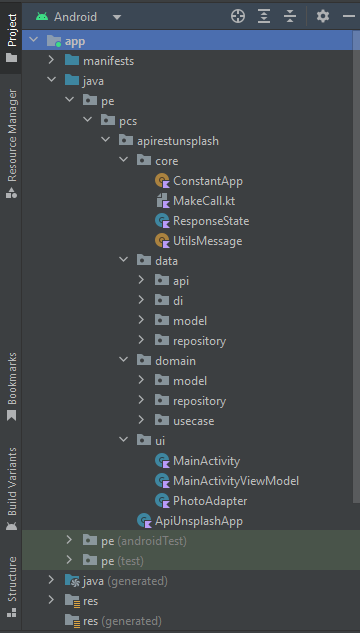
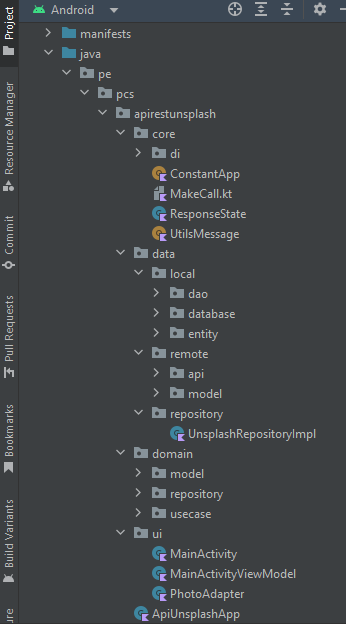
Se agrego ROOM para el almacenamiento de los datos recibidos de la api.

Changed region(s): [[0.0, 0.0, 1.0, 1.0], [0.0, 0.4872, 0.0578, 1.0], [0.3179, 0.3958, 0.3468, 0.4263]]

diff --git a/README.md b/README.md
@@ -18,8 +18,8 @@ Mediante este ejemplo accederemos a la api de Unsplash, la particularidad de est
 
 ## Estructura del proyecto
 
-- core: Contiene las clases comunes para la implementación de mensajes, constantes y el manejo de los estados de respuestas.
-- data: Contiene las clases, interfaces para el consumo de la api, inyeccion de dependencia, etc.
+- core: Contiene las clases comunes para la implementación de mensajes, constantes, modulo de inyeccion de dependencia y el manejo de los estados de respuestas.
+- data: Contiene las clases, interfaces para el consumo de la api, manejo de room, implementacion del repositorio, etc.
 - domain: Contiene el modelo, repositorio y el use case.
 - ui: Contiene la interfaz de usuario, adaptador y el viewmodel.
 
@@ -27,7 +27,7 @@ Mediante este ejemplo accederemos a la api de Unsplash, la particularidad de est
 ![Image text](https://github.com/programadorescs/ApiRestUnsplash/blob/master/app/src/main/assets/respuesta_json.png)
 
 ## Estructura de la app
-![Image text](https://github.com/programadorescs/ApiRestUnsplash/blob/master/app/src/main/assets/respuesta_json.png)
+![Image text](https://github.com/programadorescs/ApiRestUnsplash/blob/master/app/src/main/assets/Estructura_De_La_App.png)
 
 ## Imagenes de la app
 ![Image text](https://github.com/programadorescs/ApiRestUnsplash/blob/master/app/src/main/assets/pantalla_01.png)
